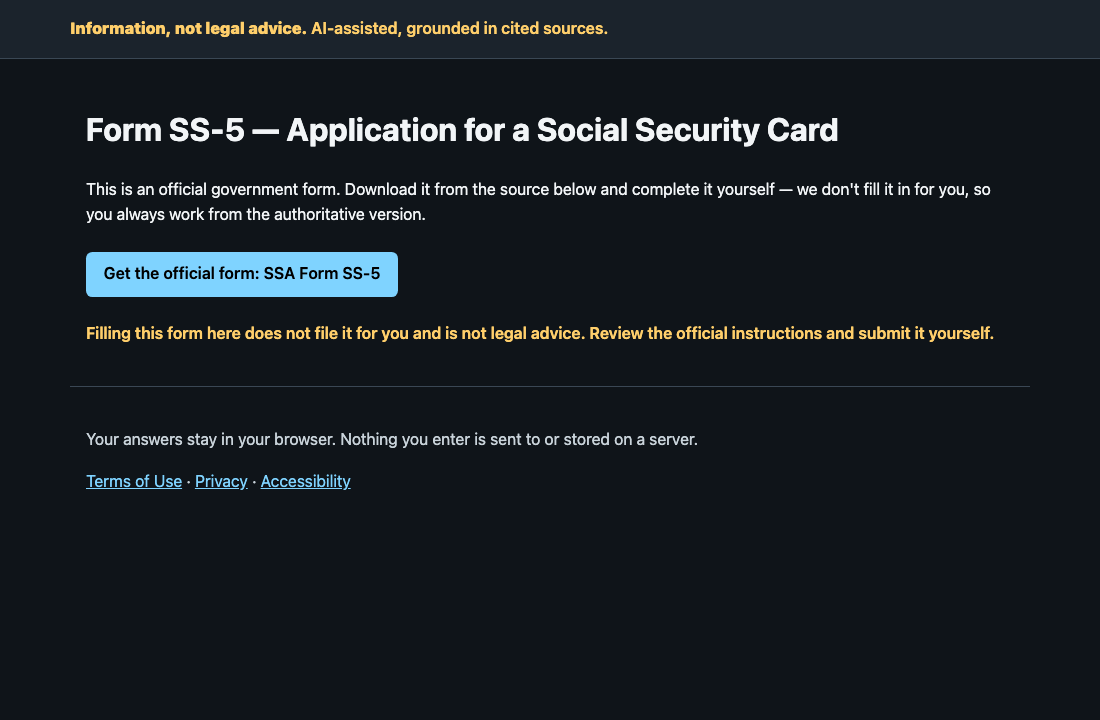
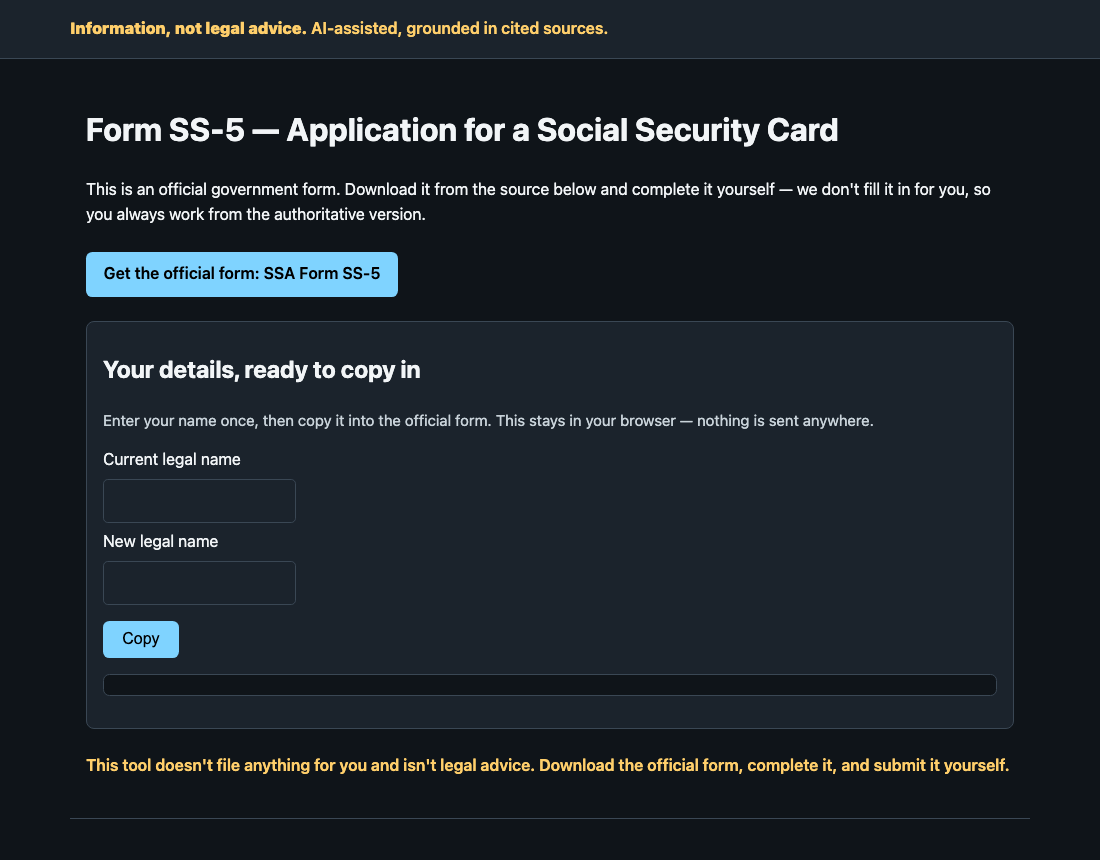
Add a safe, on-device "copy your details into the official form" helper
The real government forms are dynamic XFA PDFs that can't be safely auto-
filled client-side (and re-saving a court form risks clerk rejection), so
true auto-fill stays a human-gated feature. This adds the safe middle
ground: on the official-form page you enter your name once and get a
copyable block to paste into the form you downloaded.

- Entirely on-device: inputs are not in a <form> and have no name attribute,
  so nothing can be submitted; values never reach the server. Clipboard via
  navigator.clipboard, with a visible fallback block.
- External module (/assets/form-copy.js) + JSON island → strict CSP intact.
- Localized EN/ES; labelled inputs (a11y).

14 gates + smoke green.

diff --git a/src/pages.ts b/src/pages.ts
@@ -5,7 +5,7 @@
 // filled entirely in the browser.
 
 import type { Checklist, CorpusRecord, DocumentType, FormDef, Language } from "../api/types.ts";
-import { page, renderChecklist, renderPacket, uiStrings, escapeHtml, gapReason } from "./render.ts";
+import { page, renderChecklist, renderPacket, uiStrings, escapeHtml, gapReason, fieldLabel } from "./render.ts";
 import { t as locale, SUPPORTED_LOCALES } from "./i18n/index.ts";
 import { guideLinksFor } from "./guide.ts";
 import { toResumeState } from "./secure-resume.ts";
@@ -192,9 +192,28 @@ export function renderPacketPage(
  */
 export function renderFormFillPage(form: FormDef, lang: Language = "en"): string {
   const s = uiStrings(lang);
+  const currentLabel = fieldLabel(lang, "current_legal_name");
+  const newLabel = fieldLabel(lang, "new_legal_name");
+  // Copy-helper config (labels + confirmation) for the static module. The inputs are
+  // NOT inside a <form> and have no name attribute, so nothing can be submitted — the
+  // values live only in the browser and never reach the server.
+  const cfg = { labels: { current: currentLabel, new: newLabel }, copied: s.copied };
   const body = `
 <p>${escapeHtml(s.officialFormIntro)}</p>
 <p class="cta"><a href="${escapeHtml(form.source.url)}" rel="noopener noreferrer">${escapeHtml(s.getFormCta)}: ${escapeHtml(form.source.title)}</a></p>
+<section class="copy-helper no-print" aria-labelledby="copy-h">
+  <h2 id="copy-h">${escapeHtml(s.copyTitle)}</h2>
+  <p class="meta">${escapeHtml(s.copyIntro)}</p>
+  <label for="copy-current">${escapeHtml(currentLabel)}</label>
+  <input id="copy-current" type="text" data-copy="current" autocomplete="off" autocapitalize="words" spellcheck="false">
+  <label for="copy-new">${escapeHtml(newLabel)}</label>
+  <input id="copy-new" type="text" data-copy="new" autocomplete="off" autocapitalize="words" spellcheck="false">
+  <p><button type="button" id="copy-btn">${escapeHtml(s.copyBtn)}</button></p>
+  <pre id="copy-out" class="copy-out" aria-live="polite"></pre>
+  <p id="copy-status" role="status" aria-live="polite" class="meta"></p>
+</section>
+${jsonIsland("copy-cfg", cfg)}
+<script type="module" src="/assets/form-copy.js"></script>
 <p class="flag" role="note">${escapeHtml(s.notFilingNote)}</p>`;
   return page({ lang, title: form.title, heading: form.title, body });
 }

diff --git a/scripts/smoke-journey.ts b/scripts/smoke-journey.ts
@@ -49,12 +49,13 @@ const CHECKS: Check[] = [
   { name: "checklist (es)", path: "/checklist?jurisdiction=US-CA&change=name&language=es", contains: ["Información, no asesoramiento legal", "Paso 1"] },
   { name: "packet (en)", path: "/packet?jurisdiction=US-CA&change=name", contains: ["Information, not legal advice", "Prepared on"] },
   { name: "packet (es)", path: "/packet?jurisdiction=US-CA&change=name&language=es", contains: ["Preparado el"] },
-  { name: "official form page", path: "/forms/us-ss-5", contains: ["Information, not legal advice", "ssa.gov/forms/ss-5.pdf"] },
+  { name: "official form page", path: "/forms/us-ss-5", contains: ["Information, not legal advice", "ssa.gov/forms/ss-5.pdf", "Your details, ready to copy", "/assets/form-copy.js"] },
   { name: "terms (es)", path: "/terms?language=es", contains: ["Términos de uso"] },
   { name: "stylesheet", path: "/assets/app.css", contentType: "text/css", contains: ["focus-visible", "@media print"] },
   { name: "resume module", path: "/assets/resume-panel.js", contentType: "text/javascript", contains: ["resume-crypto.js"] },
   { name: "crypto module", path: "/assets/resume-crypto.js", contentType: "text/javascript", contains: ["AES-GCM"] },
   { name: "progress module", path: "/assets/progress.js", contentType: "text/javascript", contains: ["localStorage"] },
+  { name: "copy-helper module", path: "/assets/form-copy.js", contentType: "text/javascript", contains: ["clipboard"] },
   { name: "packet module", path: "/assets/packet.js", contentType: "text/javascript" },
   { name: "healthz", path: "/healthz", contentType: "application/json", contains: ["corpus_records"] },
 ];

diff --git a/public/assets/form-copy.js b/public/assets/form-copy.js
@@ -1,0 +1,41 @@
+// "Copy your details into the official form" helper. Entirely on-device: the name you
+// type is shown back as a copyable block and put on your clipboard — it is never sent
+// anywhere (the inputs aren't in a form and have no name attribute). Progressive
+// enhancement; config (labels + confirmation text) rides in the #copy-cfg JSON island.
+
+const cfgEl = document.getElementById("copy-cfg");
+const out = document.getElementById("copy-out");
+const status = document.getElementById("copy-status");
+const btn = document.getElementById("copy-btn");
+const cur = document.getElementById("copy-current");
+const nw = document.getElementById("copy-new");
+
+if (cfgEl && out && btn && cur && nw) {
+  const CFG = JSON.parse(cfgEl.textContent);
+
+  function build() {
+    const lines = [];
+    if (cur.value.trim()) lines.push(`${CFG.labels.current}: ${cur.value.trim()}`);
+    if (nw.value.trim()) lines.push(`${CFG.labels.new}: ${nw.value.trim()}`);
+    out.textContent = lines.join("\n");
+    return lines.join("\n");
+  }
+
+  cur.addEventListener("input", () => { build(); status.textContent = ""; });
+  nw.addEventListener("input", () => { build(); status.textContent = ""; });
+
+  btn.addEventListener("click", async () => {
+    const text = build();
+    if (!text) return;
+    try {
+      await navigator.clipboard.writeText(text);
+      status.textContent = CFG.copied;
+    } catch {
+      // Clipboard blocked (older browser / no permission): the block is still visible
+      // to select and copy manually.
+      status.textContent = "";
+    }
+  });
+
+  build();
+}

diff --git a/tests/pages.test.ts b/tests/pages.test.ts
@@ -83,6 +83,23 @@ test("form page links to the official source and never auto-fills", () => {
   }
 });
 
+test("form page offers an on-device copy-helper that can't submit anything", () => {
+  const h = renderFormFillPage(formById("us-ss-5")!, "en");
+  assert.match(h, /id="copy-current"/);
+  assert.match(h, /id="copy-new"/);
+  assert.match(h, /for="copy-current"/); // labelled (a11y)
+  assert.match(h, /\/assets\/form-copy\.js/);
+  assert.doesNotMatch(h, /<form/); // no form element → nothing can be submitted
+  assert.doesNotMatch(h, /<input[^>]*\bname=/); // inputs have no name → never serialized to a request
+  assert.doesNotMatch(h, /<script>/); // strict CSP: no inline script
+});
+
+test("the copy-helper is local-only with no network egress", () => {
+  const js = readFileSync(join(import.meta.dirname, "..", "public", "assets", "form-copy.js"), "utf8");
+  assert.match(js, /clipboard/);
+  assert.doesNotMatch(js, /fetch\(|XMLHttpRequest|navigator\.sendBeacon|FormData/);
+});
+
 test("encrypted save/resume panel renders with a labeled passphrase when there's a selection", () => {
   const h = renderChecklistPage(clEn, corpus, "en", "jurisdiction=US-CA&change=name");
   assert.match(h, /Save your progress/);

diff --git a/src/render.ts b/src/render.ts
@@ -79,6 +79,8 @@ footer{max-width:60rem;margin:0 auto;padding:1.5rem 1rem;color:var(--muted);bord
 .step-detail{margin:.5rem 0}
 .step-detail summary{cursor:pointer;color:var(--accent)}
 .more{background:var(--card);border:1px solid var(--line);border-radius:.5rem;padding:.5rem 1rem 1rem;margin:1.5rem 0}
+.copy-helper{background:var(--card);border:1px solid var(--line);border-radius:.5rem;padding:.5rem 1rem 1rem;margin:1.5rem 0}
+.copy-out{white-space:pre-wrap;background:var(--bg);border:1px solid var(--line);border-radius:.4rem;padding:.5rem;min-height:1.4rem;margin:.5rem 0}
 @media (prefers-reduced-motion: reduce){*{animation:none!important;transition:none!important;scroll-behavior:auto!important}}
 @media print{
   :root{--bg:${PALETTE.print.bg};--fg:${PALETTE.print.fg};--muted:${PALETTE.print.muted};--accent:${PALETTE.print.accent};--card:${PALETTE.print.card};--warn:${PALETTE.print.warn};--line:${PALETTE.print.line}}

diff --git a/src/i18n/es.ts b/src/i18n/es.ts
@@ -91,6 +91,10 @@ export const es: LocaleBundle = {
     moreHeading: "Más información",
     seeDetailedAnswer: "Vea en detalle lo que dicen las fuentes",
     officialFormIntro: "Este es un formulario oficial del gobierno. Descárguelo desde la fuente a continuación y complételo usted mismo: no lo llenamos por usted, así que siempre trabaja con la versión oficial.",
+    copyTitle: "Sus datos, listos para copiar",
+    copyIntro: "Ingrese su nombre una vez y cópielo en el formulario oficial. Esto permanece en su navegador: no se envía a ningún lugar.",
+    copyBtn: "Copiar",
+    copied: "Copiado al portapapeles.",
   },
 
   docTitles: {

diff --git a/src/i18n/en.ts b/src/i18n/en.ts
@@ -91,6 +91,10 @@ export const en: LocaleBundle = {
     moreHeading: "Go deeper",
     seeDetailedAnswer: "See what the sources say in detail",
     officialFormIntro: "This is an official government form. Download it from the source below and complete it yourself — we don't fill it in for you, so you always work from the authoritative version.",
+    copyTitle: "Your details, ready to copy in",
+    copyIntro: "Enter your name once, then copy it into the official form. This stays in your browser — nothing is sent anywhere.",
+    copyBtn: "Copy",
+    copied: "Copied to clipboard.",
   },
 
   docTitles: {

diff --git a/tests/spanish-parity.test.ts b/tests/spanish-parity.test.ts
@@ -68,7 +68,8 @@ test("official-form page is localized and links to the real source (no auto-fill
   const es = handleRoute("GET", u("/forms/us-ss-5?language=es")).body;
   assert.match(es, /complételo usted mismo/); // localized honest copy
   assert.match(es, /Obtenga el formulario oficial/);
-  assert.doesNotMatch(es, /complete it yourself/); // no English leak
+  assert.match(es, /Sus datos, listos para copiar/); // localized copy-helper
+  assert.doesNotMatch(es, /complete it yourself|Your details, ready/); // no English leak
 });
 
 test("405 carries an Allow header", () => {

diff --git a/src/i18n/types.ts b/src/i18n/types.ts
@@ -92,6 +92,11 @@ export interface UiMessages {
   moreHeading: string;
   seeDetailedAnswer: string;
   officialFormIntro: string;
+  // On-device "copy your details into the official form" helper (no PDF, no egress).
+  copyTitle: string;
+  copyIntro: string;
+  copyBtn: string;
+  copied: string;
 }
 
 /**
